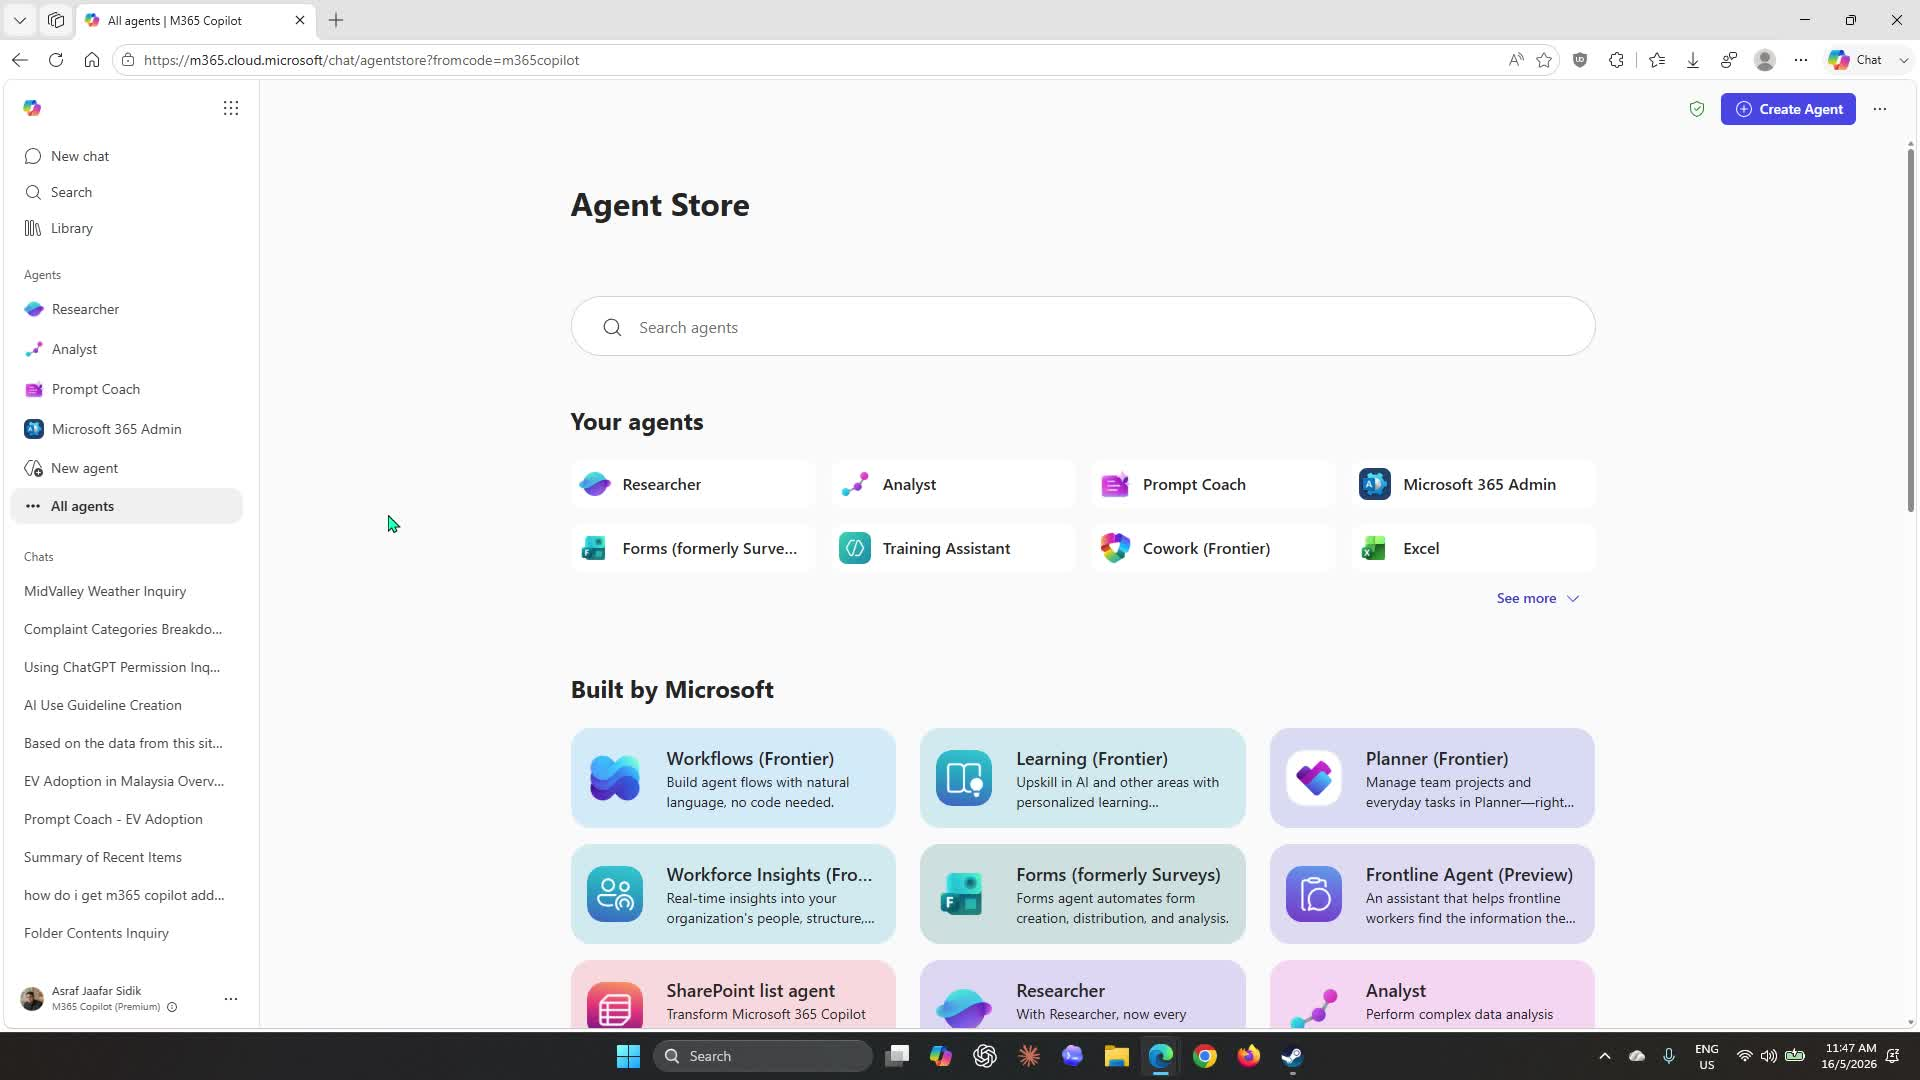
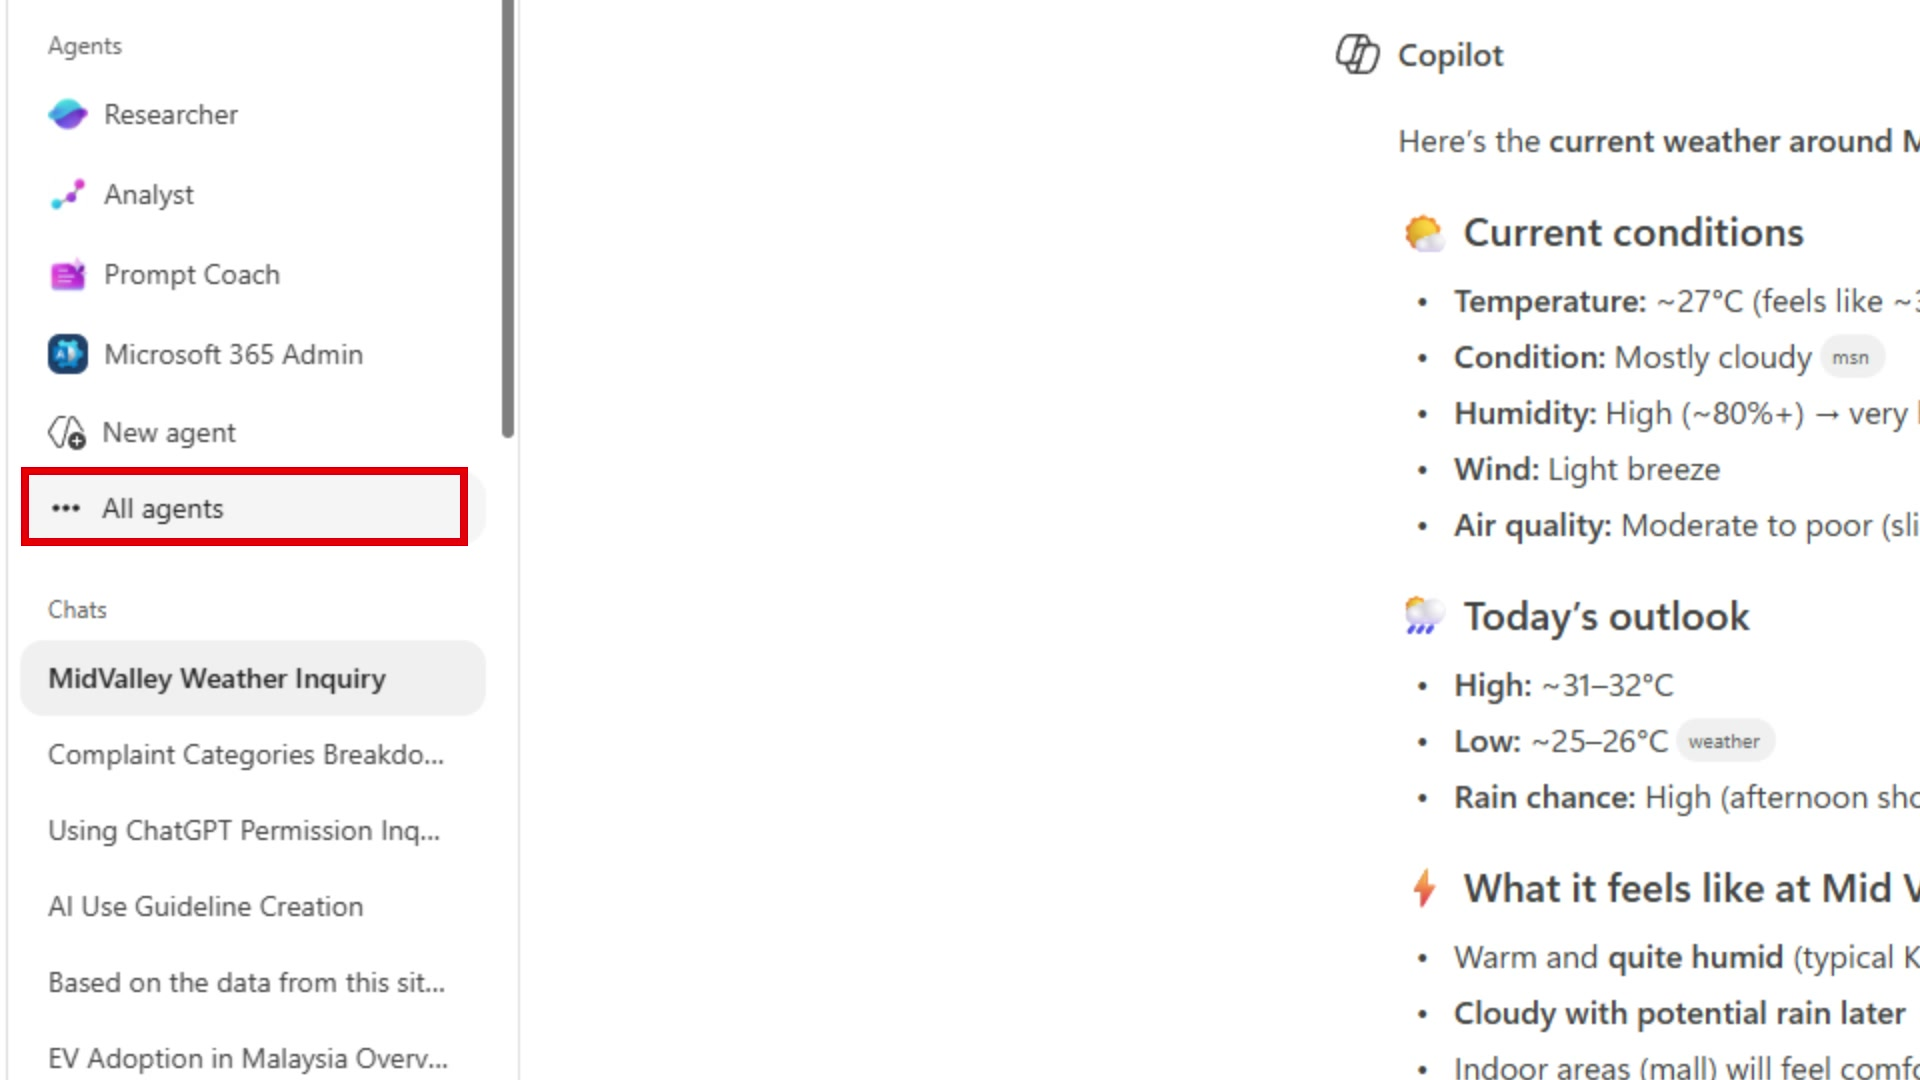
Clean instructions

diff --git a/Instructions/Labs/Lab_01_Copilot_Chat_Web.md b/Instructions/Labs/Lab_01_Copilot_Chat_Web.md
@@ -130,9 +130,13 @@ Copilot Chat includes a built-in agent called **Prompt Coach** that analyses you
 
 1. In the left sidebar, select **All agents** to open the Agent Store.
 
-    ![Copilot Agent Store showing available agents including Prompt Coach](../../assets/images/lab01_agent_store_wide.jpg)
+    ![Left sidebar with All agents highlighted](../../assets/images/lab01_agent_store_wide.jpg)
 
-1. Select the **Prompt Coach** tile. When the detail card appears, select **Open**.
+1. In the **Search agents** box at the top of the Agent Store, type `Prompt Coach`. Select **Prompt Coach** from the results that appear.
+
+    ![Agent Store search showing Prompt Coach result highlighted](../../assets/images/lab01_prompt_coach_search_wide.jpg)
+
+1. When the detail card appears, check whether the button says **Open** or **Add**. If it says **Add**, select it first to install Prompt Coach, then select **Open**.
 
     ![Prompt Coach detail card in the Agent Store with the Open button highlighted](../../assets/images/lab01_prompt_coach_open_wide.jpg)
 
